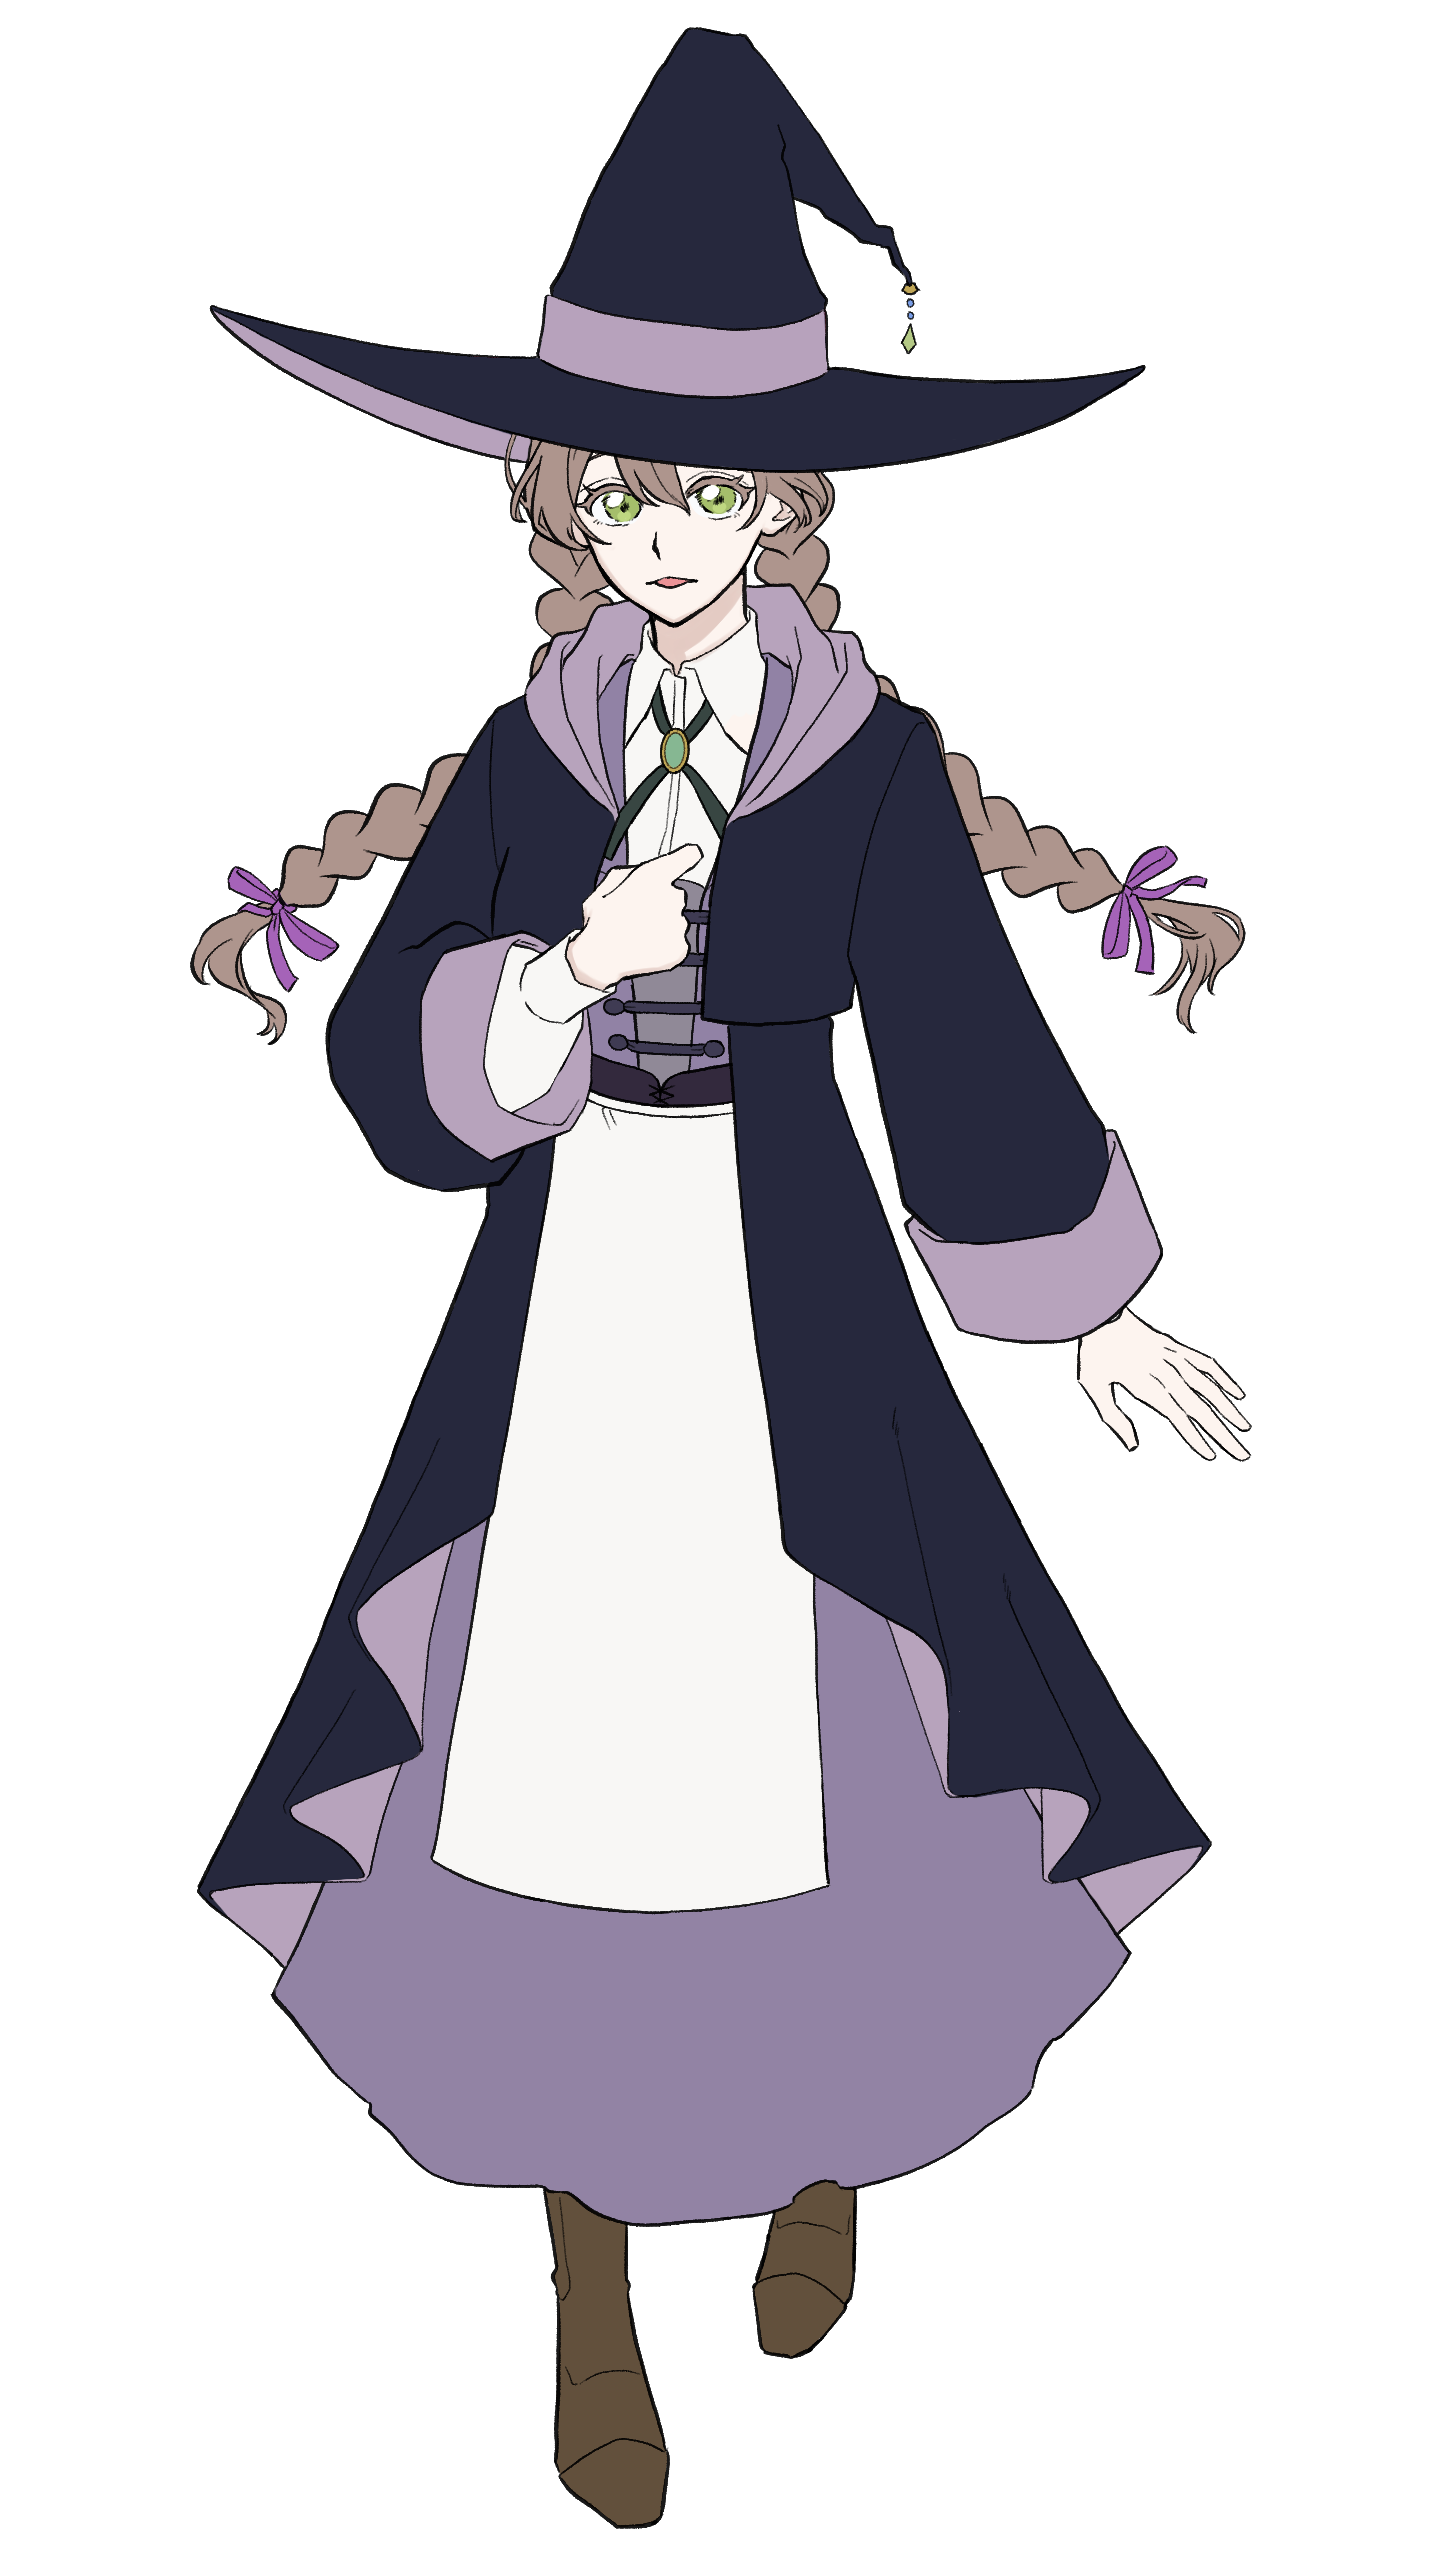
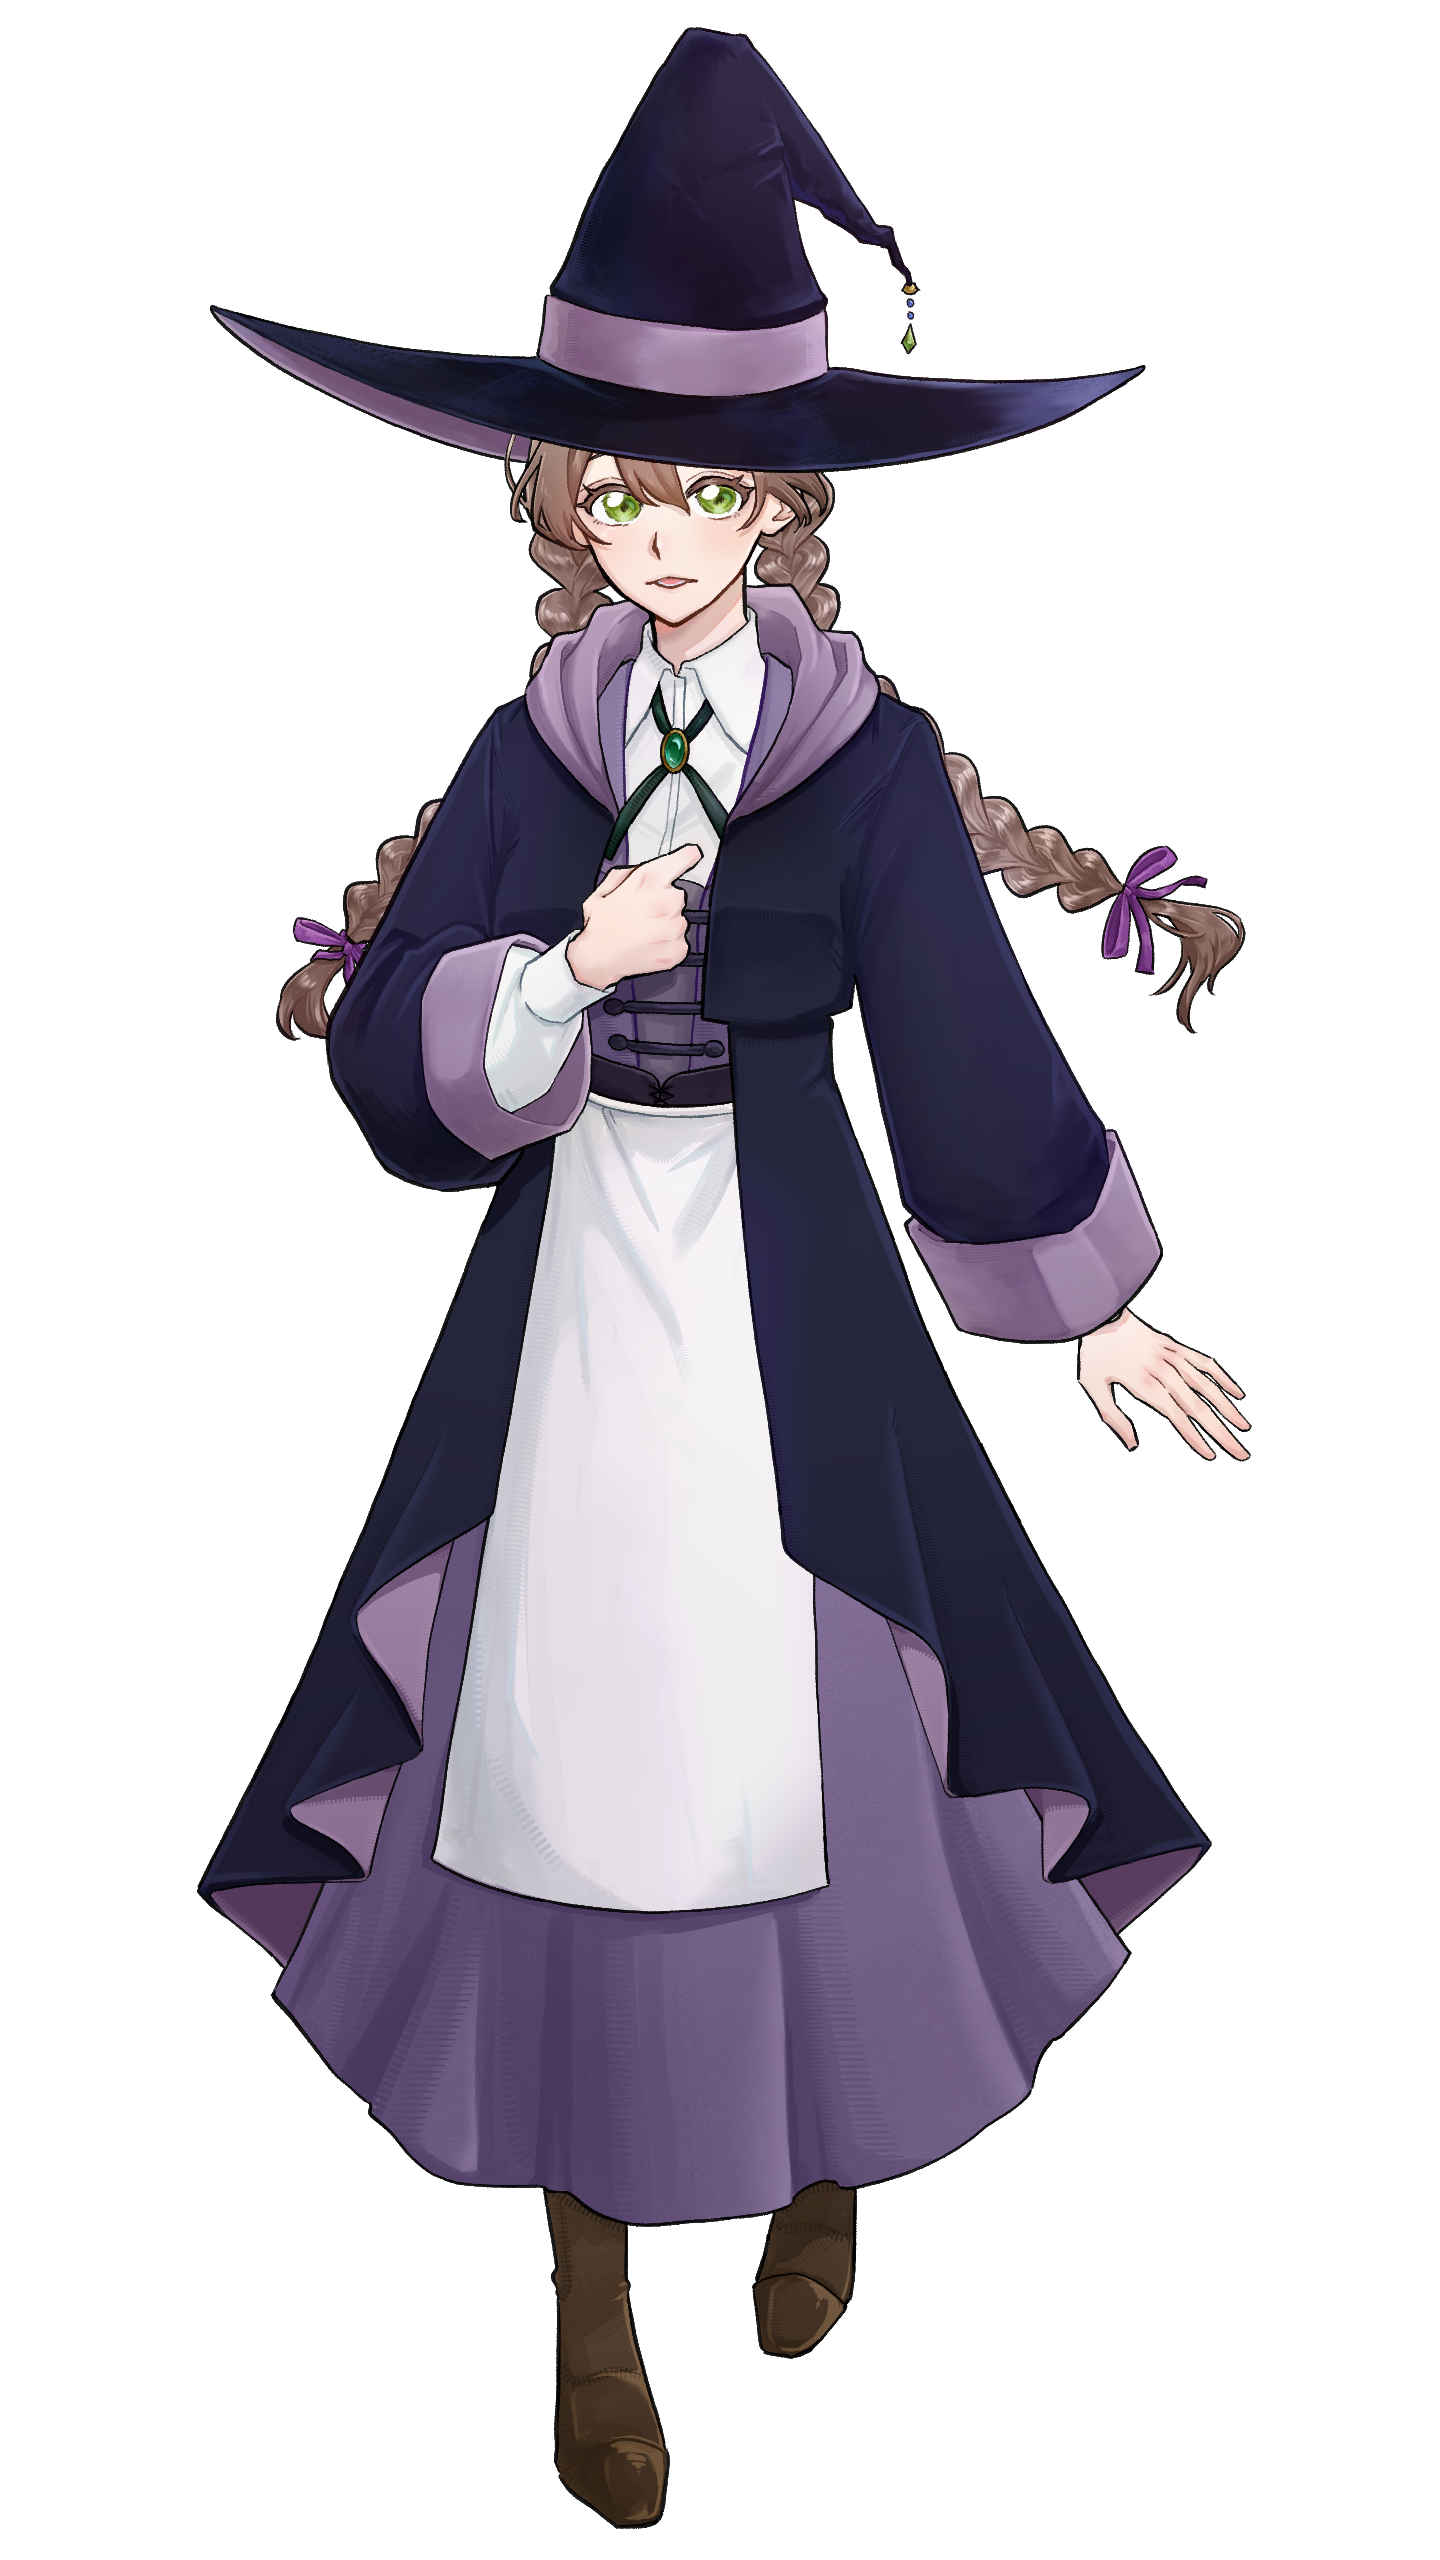
魔女画像変更

diff --git a/src/components/scenes/RecipeLearningScene.tsx b/src/components/scenes/RecipeLearningScene.tsx
@@ -1,5 +1,5 @@
 import { useMemo, useState } from "react";
-import { css } from "../../../styled-system/css";
+import { css } from "#styled-system/css";
 import { useGameStore } from "../../store/useGameStore";
 import { useWindowSize } from "../../hooks/useWindowSize";
 import PixiCanvas, { type DrawCommand } from "../PixiCanvas";
@@ -49,7 +49,7 @@ export default function RecipeLearningScene() {
         actions={
           <>
             {reloadMsg && (
-              <span style={{ fontSize: 13, color: "#e07070", marginRight: 4 }}>{reloadMsg}</span>
+              <span className={css({ fontSize: "13px", color: "#e07070", mr: "4px" })}>{reloadMsg}</span>
             )}
             <ActionButton
               variant="secondary"

diff --git a/src/components/ui/character/Character.tsx b/src/components/ui/character/Character.tsx
@@ -23,7 +23,7 @@ const CHARACTER_LABEL: Record<CharacterType, string> = {
 };
 
 const CHARACTER_IMAGE: Partial<Record<CharacterType, string>> = {
-  witch: "/MagicPotion/assets/new-witch.png",
+  witch: "/MagicPotion/assets/witch.png",
   shopkeeper: "/MagicPotion/assets/shopkeeper.png",
 };
 export default function Character({

diff --git a/src/components/scenes/ConversationScene.tsx b/src/components/scenes/ConversationScene.tsx
@@ -72,7 +72,7 @@ export default function ConversationScene() {
         character="witch"
         imageSrc={
           scene === "conversation_brew"
-            ? "/MagicPotion/assets/new-witch-coat.png"
+            ? "/MagicPotion/assets/witch-coat.png"
             : undefined
         }
       />
